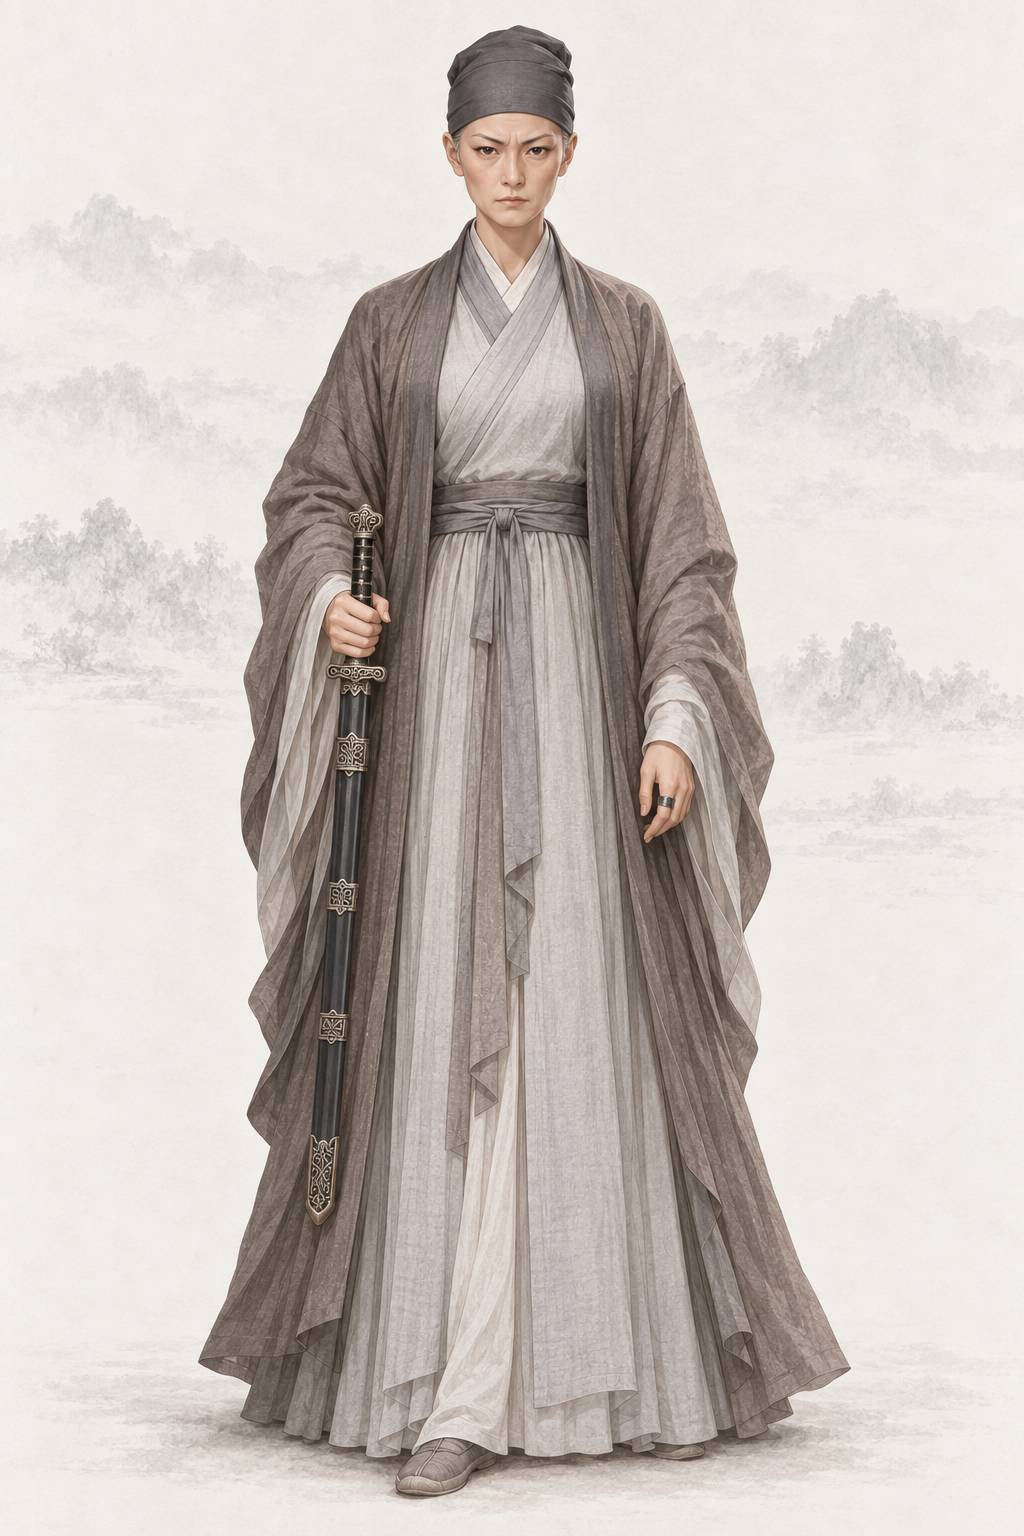
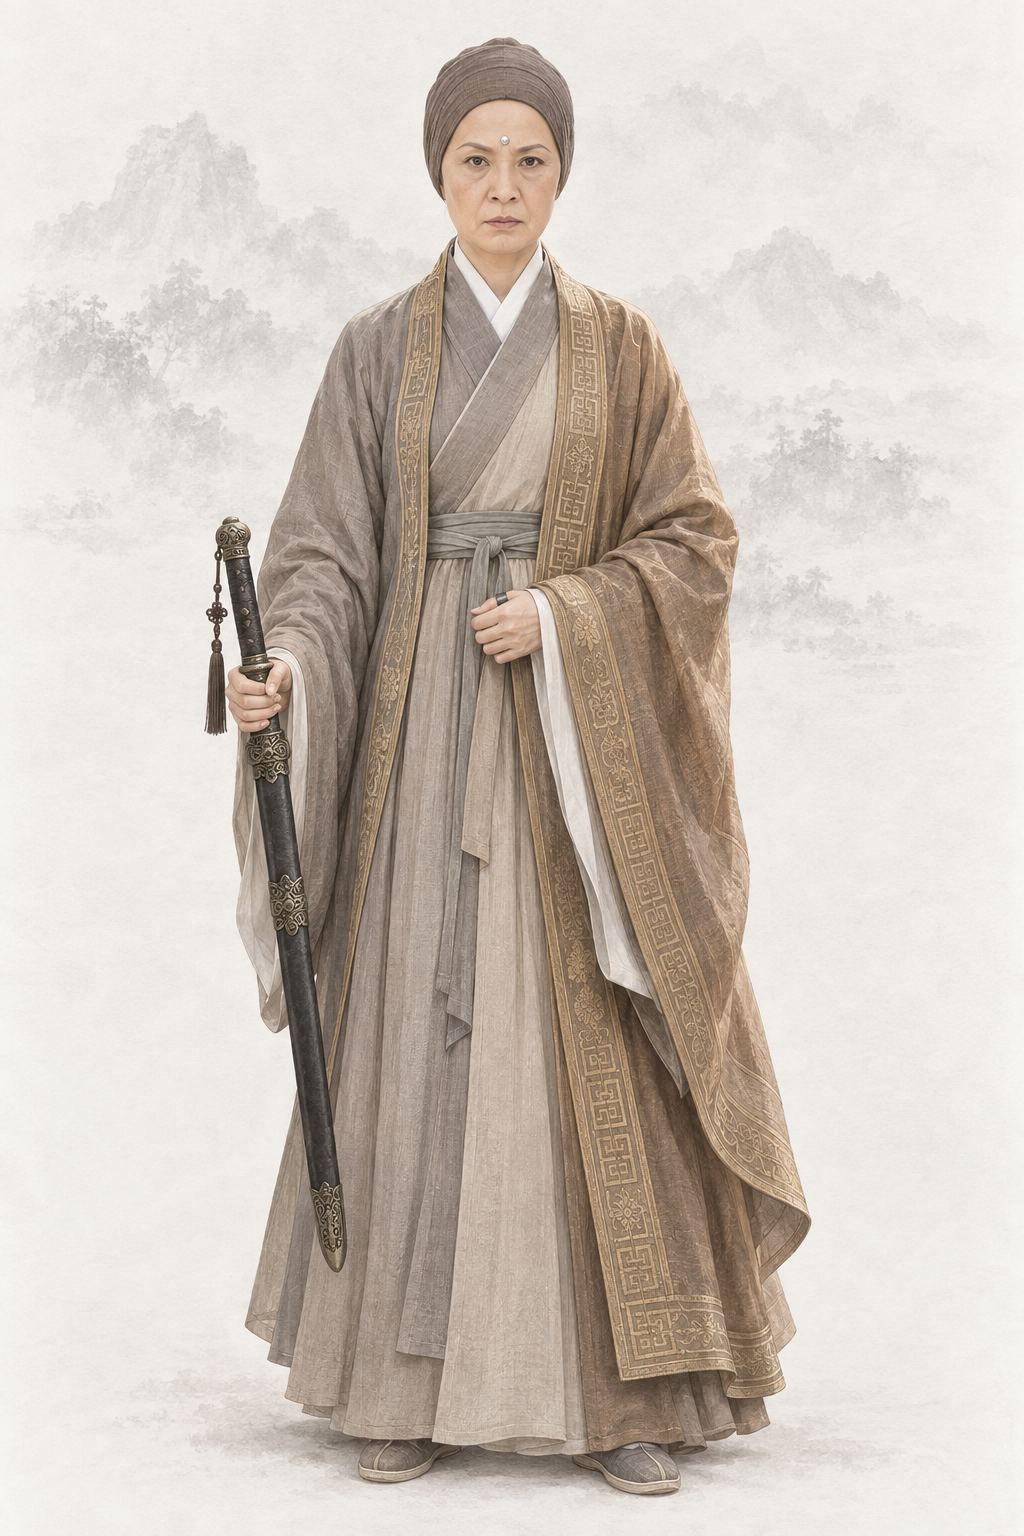
assets(character): por_npc_miejueshitai__ch04_elder_yitian_base 灭绝师太（codex，AR-32 经典版）
参考 2003 年苏有朋、贾静雯版《倚天屠龙记》（作者 AR-32 指定） 剧照与项目基线重出；剧照只作出图参考，不入库。

diff --git a/assets/default/prompts/characters/ch04-yitian/npc_miejueshitai.md b/assets/default/prompts/characters/ch04-yitian/npc_miejueshitai.md
@@ -17,16 +17,44 @@ references:
   use: 第三参考仅用户要求的背景：暖浅灰纸底、极淡水墨远山和薄雾、充足留白。已实际view并复核SHA，不取王语嫣脸、年轻年龄、发型、服装、动作或头部倾斜；墨痕与纸纹只能在背景，不进入人物与兵器。
 status: redo
 realism_revision: user_identity_pose_20261001
-redo_reason: "整体可用，但缺原著最醒目的“两条眉毛斜斜下垂、面相诡异”，年龄与尼姑装束也要校正"
+redo_reason: "AR-32：主要角色参考经典影视版剧照（2003 年版）加基线重出（10-02，7 号出图员）"
 reference_upload:
-- assets/default/character/female/ch04/por_npc_miejueshitai__ch04_elder_yitian_base.png
+- .agents/coord/imagegen-reference/identity-20261002/yitian/miejueshitai_2003_yanminqiu_sohu2025a.jpg
 - assets/default/baseline/character/female/ref_npc_wangyuyan__ch01_base01.png
+- assets/default/baseline/character/female/ref_npc_xiaolongnv__ch03_base01.png
 codex_prompt_rev: 2026-10-02
+classic_ref:
+  version: 2003 年苏有朋、贾静雯版《倚天屠龙记》（作者 AR-32 指定）
+  actor: 严敏求
+  stills:
+  - .agents/coord/imagegen-reference/identity-20261002/yitian/miejueshitai_2003_yanminqiu_sohu2025a.jpg
 ---
 
 # 灭绝师太 · 人物写实修正
 
 ## Gemini 提示词
+
+> 2026-10-02 AR-32 改写（7 号出图员，codex exec · image_gen 出图）：主要角色参考经典影视版剧照重出——2003 年苏有朋、贾静雯版《倚天屠龙记》（作者 AR-32 指定）。按顺序上传剧照 1 张（miejueshitai_2003_yanminqiu_sohu2025a.jpg，在主检出 .agents/coord/imagegen-reference/identity-20261002/，不入库）取发型、服饰、配色、气质与面部特征，再上传两张同性别缩小版基线（放在最后）取画风；要求重新绘制成项目画风，不复制照片。提示词里不写演员名。上一版保留在后文作历史。
+
+```text
+生成一张 2:3 竖幅全身人物立绘：单人、单一视角、完整全身——头顶、双手、双脚和手中器物的两端都在画面内，四周留出自然空白；人物站姿自然，身体基本朝向正面，头部端正（不歪头、不仰不俯），镜头平视。
+【画风】写实手绘古风人物插画，与本项目写实武侠角色立绘同一画风，像功力深厚的画师用细腻笔触画出的真实人物。手绘插画质感，不是 CG 渲染：不要过度光滑的皮肤、完美对称的五官、塑料高光、过度锐利的发丝；保留自然的笔触和细微不完美。皮肤有真实质感——细小毛孔、细纹、晒痕和自然的左右不对称，不磨皮、不油亮；头发是一缕缕自然的发丝和少量碎发；布料看得出经纬纹理、厚薄和自然垂坠的褶皱，带穿用过的轻微旧化，但完整不破烂；整体设色低饱和、沉稳；柔和的自然光从左上方照来，明暗过渡自然，不打舞台光、轮廓光或美颜柔光。不是照片，不是三维渲染，不是动漫或游戏 CG，也不是油画（没有厚涂笔触和画布纹理）。
+【背景】不透明的暖浅灰色纸底，只在远处有极淡的水墨远山和薄雾，大面积留白；人物与背景明暗分明、轮廓边缘干净完整（后续要自动抠图），水墨和纸纹只在背景里，不侵入人物和衣服；脚下只有很淡的一点接触阴影。
+【剧照参考】随提示词上传的第 1 张参考图是这个角色经典影视造型的剧照：借鉴其发型、服饰、配色、标志道具、气质和面部特征（脸型、眉眼、鼻唇的比例与神态），让人一眼认出是这个角色；但必须重新绘制成本项目画风的手绘写实插画，不要照片质感，不要照搬剧照的构图、取景、光影、背景和姿势，也不要做成照片修图或磨皮美颜；剧照里的影楼柔光、浓妆、字幕和水印都不要。最后两张是本项目画风基线：画风、用色、光线、质感和暖浅灰纸底加淡水墨背景以它们为准。
+【人物】灭绝师太，《倚天屠龙记》峨眉派掌门；六大派围攻光明顶、万安寺被囚之前，手持倚天剑。性情刚烈、疾恶如仇，手段狠辣。
+重出要求（上一版的问题，这次必须改正）：上一版的眉毛几乎是平的，缺了原著最醒目的特征：两条眉毛必须从眉头起就明显向两侧外下方斜垂，眉尾比眉头低很多，呈倒写的“八”字（眉头高、眉尾低），让整张脸显得阴森冷厉、面相诡异——这是本图最重要的辨识点，一定要清楚画出来；眼神要更严厉、带杀气，嘴角下压。
+【年龄与体态】五十岁上下（原著四十多岁），身材瘦削挺拔。成年女性的身体比例（约 7 头身），衣着完整端庄。
+【经典造型】照剧照里这一版深入人心的灭绝师太来画：头上紧裹一顶灰褐色布尼帽，把头发和耳朵全包住，只露出脸；眉心一点圆圆的白色小珠饰；面容端正却冷厉，不苟言笑；灰褐僧衣外搭金褐色回纹锦边的袈裟，手持倚天剑。
+【面容】照剧照的脸型和五官来画：端正的圆长脸、两颊略松，法令纹清楚；原著写她两条眉毛斜斜下垂、一副面相极是诡异：两条长眉从眉头向眉尾明显斜斜下垂（呈八字形），使整张脸显得阴森、冷厉；眼神严厉；嘴角下压。
+【发式】出家人，头戴灰褐布尼帽，不露头发。
+【服饰】灰褐色交领右衽僧衣，白色内领，外搭一条金褐色回纹锦边的袈裟（从左肩斜披），布带，僧鞋。
+【道具】右手握倚天剑，完整入古朴的黑色剑鞘，剑尖朝下；左手拇指上戴一枚铁指环（峨眉掌门信物）。
+【姿态与神情】正面站立，神情冷峻严厉、不怒自威。
+【不要】画面里不要任何文字、题款、印章、签名、水印、边框、分格或多视图；不要第二个人；不要幼态（童颜、娃娃脸、婴儿肥、儿童或少年身材、大头小身）；不要塑料感皮肤、磨皮美颜、网红脸（尖下巴大眼高鼻的模板脸）、过度对称、浓妆、偶像式打光、蜡像感；不要照片质感、照片修图感、三维渲染或动漫大眼；不要直接复制剧照的画面；不要歪头、斜镜头；不要多指、缺指（设定的伤残除外）、手与器物粘连或悬空；汉式交领必须右衽（穿着者的左襟压在右襟上），不要左衽（设定为少数民族服制的除外），不要水平镜像；不要现代物品、发光特效、法阵或能量光。不要平直或上挑的眉毛；不要露出头发、不要金莲花冠；不要老态龙钟；不要倚天剑出鞘或剑光特效。
+【画风基线】随提示词上传的参考图里，最后两张是本项目的立绘画风基线：只参考它们的画风、用色、光线、质感和暖浅灰纸底加淡水墨的背景处理，整体画风必须与它们一致——精细写实的数字手绘插画，不是油画，不要厚涂笔触和画布纹理。基线图只取画风、光线、质感和背景处理，不取长相：不要照搬基线图里人物的长相、年龄、发型、服饰和姿势。
+```
+
+## 上一版 Gemini 提示词（AR-32 改写前，历史，不再用于出图）
 
 > 2026-10-02 AR-31 改写（1 号出图员，codex exec · image_gen 出图）：重要人物借鉴经典影视造型，只写成文字——不写演员名、不上传剧照、原创面孔；主角和美人画得好看，去 AI 味，禁止幼态。出图时上传两张同性别基线立绘作画风参考（放在最后）；第 1 张为身份参考（por_npc_miejueshitai__ch04_elder_yitian_base.png）。审核组原稿保留在下一节作历史。
 
